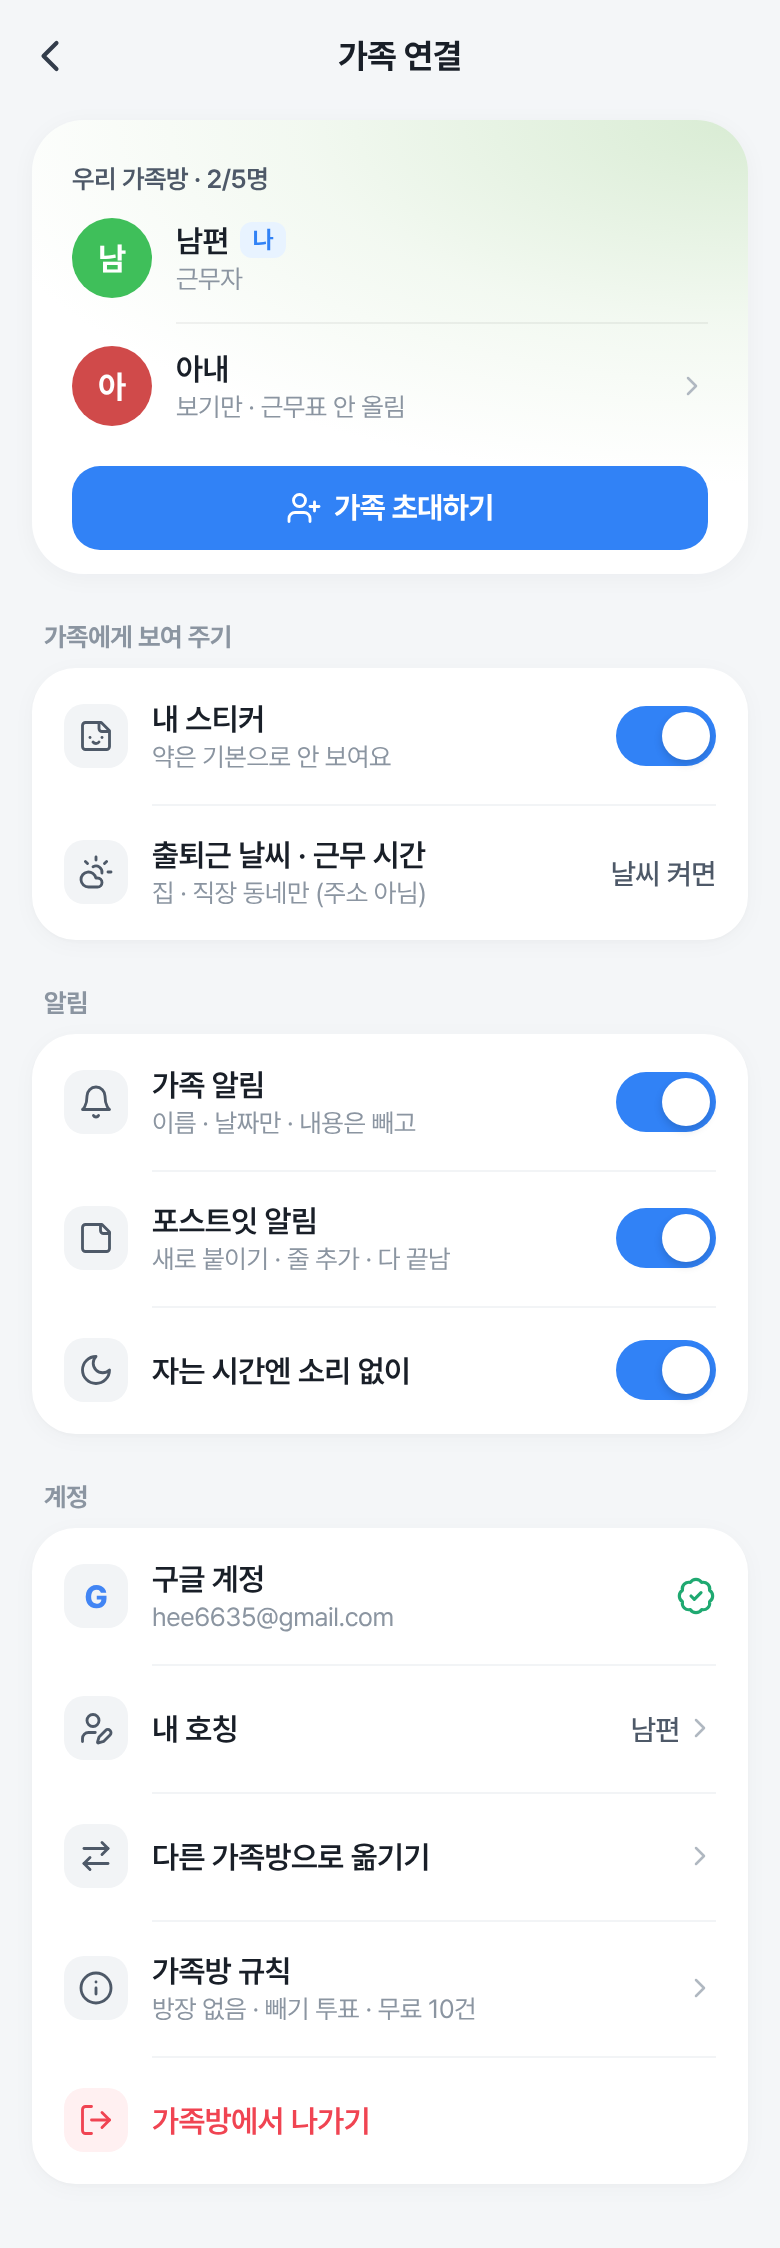
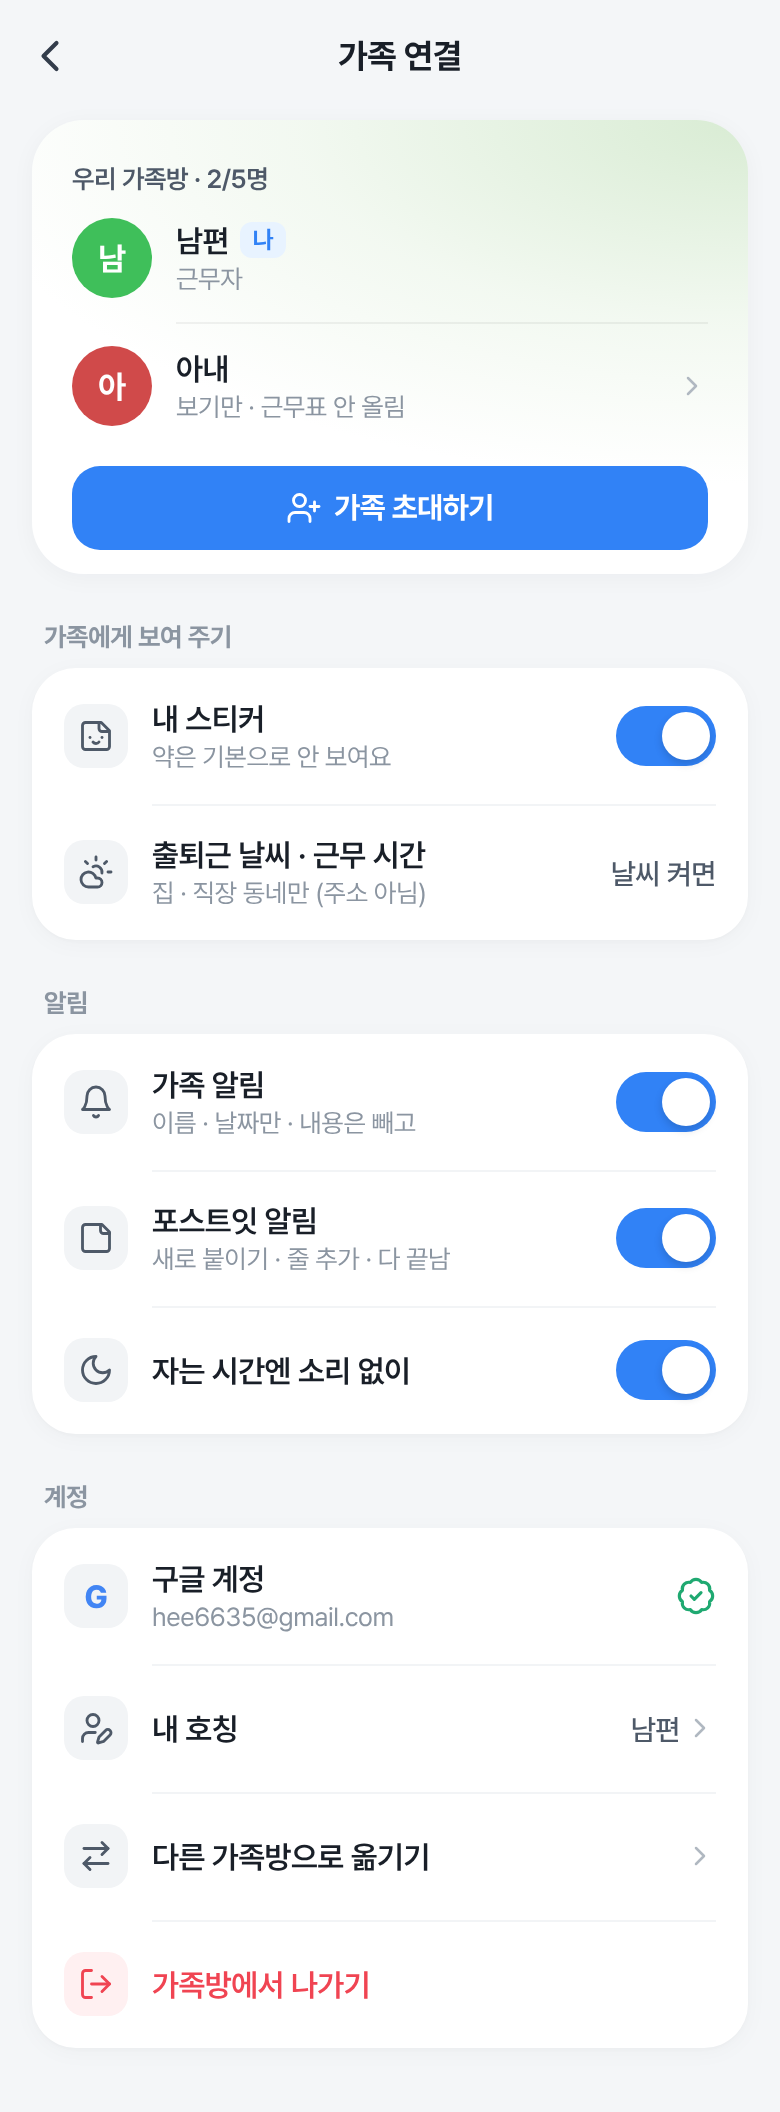
design: 가족 연결 시안 · 규칙 줄 빼고 팁으로
Claude-Session: https://claude.ai/code/session_01JTBnEvptp151JygSjZNCTX

diff --git a/design/family-link/v1.html b/design/family-link/v1.html
@@ -262,35 +262,7 @@ h2{font-size:13px;font-weight:700;color:var(--ink3);margin:24px 6px 8px}
 >
   <path d="m9 18 6-6-6-6" />
 </svg></span></div>
-<div class="r "><span class="ti"><svg
-  class="lucide lucide-info"
-  xmlns="http://www.w3.org/2000/svg"
-  width="18"
-  height="18"
-  viewBox="0 0 24 24"
-  fill="none"
-  stroke="currentColor"
-  stroke-width="1.9"
-  stroke-linecap="round"
-  stroke-linejoin="round"
->
-  <circle cx="12" cy="12" r="10" />
-  <path d="M12 16v-4" />
-  <path d="M12 8h.01" />
-</svg></span><div class="l"><div class="n">가족방 규칙</div><div class="d">방장 없음 · 빼기 투표 · 무료 10건</div></div><span class="v"><svg
-  class="lucide lucide-chevron-right"
-  xmlns="http://www.w3.org/2000/svg"
-  width="16"
-  height="16"
-  viewBox="0 0 24 24"
-  fill="none"
-  stroke="currentColor"
-  stroke-width="1.9"
-  stroke-linecap="round"
-  stroke-linejoin="round"
->
-  <path d="m9 18 6-6-6-6" />
-</svg></span></div>
+
 <div class="r out"><span class="ti"><svg
   class="lucide lucide-log-out"
   xmlns="http://www.w3.org/2000/svg"

diff --git a/docs/TODO.md b/docs/TODO.md
@@ -2471,5 +2471,5 @@
 4. AI 티 줄이기 ①~③ (오늘 색 · 보라 그라데이션 · 라벨 이모지)
 5. v0.144 코드 점검 고칠 거리 ①~⑤
 6. 필요 없는 설명문 줄이기 (화면별 남길 것 / 뺄 것 목록 먼저)
-7. 가족 연결 화면 = design/family-link/v1.html (위 칸: 가족방 인원 · 가족 줄 · 파란 초대 버튼 / 가족에게 보여 주기(내 스티커 · 출퇴근 날씨는 날씨 켜면) / 알림 3개 / 계정(구글 · 내 호칭 · 옮기기 · 가족방 규칙 › 팝업 · 나가기 빨간 줄). 맨 아래 긴 규칙 글은 '가족방 규칙' 팝업으로.
+7. 가족 연결 화면 = design/family-link/v1.html (위 칸: 가족방 인원 · 가족 줄 · 파란 초대 버튼 / 가족에게 보여 주기(내 스티커 · 출퇴근 날씨는 날씨 켜면) / 알림 3개 / 계정(구글 · 내 호칭 · 옮기기 · 나가기 빨간 줄). 맨 아래 긴 규칙 글은 화면에서 뺌 → 이럴 땐 이렇게 › 가족에 팁 2개로: '가족을 빼고 싶어요'(방장 없음 · 과반 찬성 · 30일 안 들어온 사람 · 내가 초대한 지 하루 안 된 사람은 바로) · '가족 메모 · 근무 요청 무료 횟수'(합쳐서 처음 10건).
 - 만들 때 순서: eonje-release 스킬대로 (시험 · 옛 데이터 시험 · 버전 · 문서 · 두 브랜치 · 빌드 확인).
